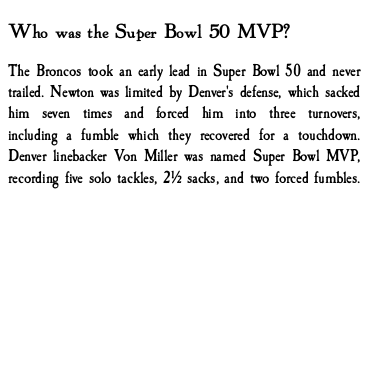
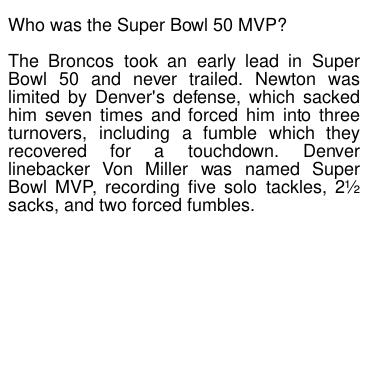
Bug fixes of syntethic generation code

Changed region(s): [[0.0, 0.0299, 0.9864, 0.5978]]

diff --git a/test.html b/test.html
@@ -1,0 +1,71 @@
+
+
+
+
+<!DOCTYPE html>
+<!-- setting language for hyphenation purpose -->
+ 
+<html lang=en_US>
+
+
+<head>
+    <style>
+        
+            
+    @page {
+        background: white;
+    }
+
+    
+    
+        
+    @page {
+        size: 368px 368px;
+        margin-top: 0px;
+        margin-bottom: 0px;
+        margin-right: 0px;
+        margin-left: 0px;
+    }
+
+
+    
+    
+        @font-face {
+        font-family: Aldrich-Regular;
+        src: url(fonts/fonts/Aldrich-Regular.ttf);
+    }
+
+    
+        html {
+        font-family: Garamond;
+        font-size: 18px;
+    }
+
+        
+        html { hyphens: none; }
+    
+
+        html { text-align: justify }
+
+        div.pretraining_text {
+        font-family: Aldrich-Regular;
+        font-size: 17px;
+        
+        
+        
+    }
+
+    
+
+    </style>
+    
+</head>
+
+<body>
+    
+        <div class="pretraining_text">
+            <p>  sometimes called the hazel hen. It is found across the Palearctic as far east as Hokkaidō, and as far west as eastern and central Europe. It lives in dense, damp, mixed coniferous woodland. It is a least concern species. </p>
+        </div>
+
+</body>
+</html>

diff --git a/pixel_dataset_generator.py b/pixel_dataset_generator.py
@@ -12,6 +12,7 @@ from PIL import Image, ImageDraw as D
 
 from datasets import load_dataset, Dataset
 import fuzzysearch
+from albumentations.pytorch import ToTensorV2
 
 from typing import List, Tuple, Dict, Callable, Optional
 import numpy as np
@@ -40,6 +41,16 @@ class CustomFont:
     
     def __str__(self) -> str:
         return f"Name: {self.font_name}\nSize: {self.file_name}\nPath: {self.font_size}"
+
+    def __getitem__(self, key: str) -> str:
+        if key == "file_name":
+            return self.file_name
+        elif key == "font_name":
+            return self.font_name
+        elif key == "font_size":
+            return self.font_size
+        else:
+            raise KeyError(f"Invalid key {key}")
 
 
 class ImageGenerator(object):
@@ -87,12 +98,12 @@ class ImageGenerator(object):
         """
         A method that returns a random custom font from the font list
         """
-        random_index = self.rng.integers(0, self.font_list.shape[0])
+        random_index = self.rng.randint(0, self.font_list.shape[0])
         random_font = self.font_list["path"][random_index]
         font_name = random_font.split(".")[0].split("/")[1]
 
         font_size = self.font_list["base_size"][random_index]
-        font_size = int(font_size / 2) + self.rng.integers(-4, 5, 1)[0]
+        font_size = int(font_size / 2) + self.rng.randint(-4, 5, 1)[0]
         
         custom_font = CustomFont(file_name=random_font,
                                  font_name=font_name.title(),
@@ -158,7 +169,7 @@ class ImageGenerator(object):
         html_text = self._generate_html_text(template, style, text)
         img_array = self._render_html_as_image(html_text, channel=self.config.channel)
         img_array = img_array[:self.config.image_height, :]
-        return img_array
+        return img_array, font
         
     def _crop_image(self, img):
         """
@@ -182,13 +193,13 @@ class ImageGenerator(object):
         non_white_pixels = np.argwhere(img < 255)
         # Find the minimum and maximum indices in each dimension.
         max_indices = non_white_pixels.max(axis=0)
-        return self.config.image_heigh - max_indices[0] > self.config.maximal_white_space_in_image
+        return self.config.image_height - max_indices[0] > self.config.maximal_white_space_in_image
     
     def concatenate_images(self, image1, image2):
         """
         A method that concatenates two images vertically
         """
-        concatenated = np.concatenate((self._crop_image(image1), self._crop_image(image2)), axis=0)
+        concatenated = np.concatenate((self._crop_image(image1), image2), axis=0)
         concatenated = concatenated[:self.config.image_height, :]
         return concatenated
     
@@ -209,15 +220,15 @@ class ImageGenerator(object):
         """
         mask = np.zeros(image_size)
         pixels_masked = 0
-        while (pixels_masked / (image_size[0] * image_size[1])) < self.args.mask_block_probability:
-            patch_height = self.rng.randint(self.args.mask_min_merged_blocks_size[0],
-                                             self.args.mask_max_merged_blocks_size[0] + 1) * self.args.mask_block_size[0]
-            patch_width = self.rng.randint(self.args.mask_min_merged_blocks_size[1],
-                                            self.args.mask_max_merged_blocks_size[1] + 1) * self.args.mask_block_size[1]
+        while (pixels_masked / (image_size[0] * image_size[1])) < self.config.mask_block_probability:
+            patch_height = self.rng.randint(self.config.mask_min_merged_blocks_size[0],
+                                             self.config.mask_max_merged_blocks_size[0] + 1) * self.config.mask_block_size[0]
+            patch_width = self.rng.randint(self.config.mask_min_merged_blocks_size[1],
+                                            self.config.mask_max_merged_blocks_size[1] + 1) * self.config.mask_block_size[1]
 
             for i in range(10):
-                random_mask_location_x = self.rng.choice(np.arange(0, image_size[0] - patch_height, self.args.mask_block_size[0]))
-                random_mask_location_y = self.rng.choice(np.arange(0, image_size[1] - patch_width, self.args.mask_block_size[1]))
+                random_mask_location_x = self.rng.choice(np.arange(0, image_size[0] - patch_height, self.config.mask_block_size[0]))
+                random_mask_location_y = self.rng.choice(np.arange(0, image_size[1] - patch_width, self.config.mask_block_size[1]))
 
                 slice = mask[random_mask_location_x: random_mask_location_x + patch_height,
                         random_mask_location_y:  random_mask_location_y + patch_width]
@@ -230,7 +241,7 @@ class ImageGenerator(object):
                     pixels_masked += patch_height * patch_width
                     break
 
-        small_mask = mask[::self.args.patch_base_size[0], ::self.args.patch_base_size[1]].flatten()
+        small_mask = mask[::self.config.patch_base_size[0], ::self.config.patch_base_size[1]].flatten()
         return mask, small_mask
 
 
@@ -248,7 +259,11 @@ class PretrainingDataset(IterableDataset):
         """
         super().__init__()
         self.config = config
-        self.transform = transform
+        if transform:
+            self.transform = transform
+        else:
+            tensor_transform = ToTensorV2()
+            self.transform =  lambda x: tensor_transform(image=x)['image']
         self.text_dataset = text_dataset
         self.rng = rng
         self.image_generator = ImageGenerator(config, rng)
@@ -267,7 +282,7 @@ class PretrainingDataset(IterableDataset):
         :param paragraphs: list of paragraphs
         :return: list of cleaned paragraphs
         """
-        paragraphs = [p.trim() for p in paragraphs ]
+        paragraphs = [p.strip() for p in paragraphs ]
         paragraphs = [p for p in paragraphs if len(p) > self.config.min_paragraph_length]  # TODO add to config file
         return paragraphs
     
@@ -276,41 +291,54 @@ class PretrainingDataset(IterableDataset):
         A method that returns a random snippet from a random paragraph in a random document
         :param random_loc_within_paragraph: whether to return a random location within the paragraph or the beginning
         """
-        doc_index = self.rng.randint(0, len(self.text_dataset))
-        doc = self.text_dataset[doc_index]["text"]
-        paragraphs = doc.split("\n")
-        paragraphs = self._clean_paragraphs(paragraphs)
+        paragraphs = []
+        while len(paragraphs) == 0:
+            doc_index = self.rng.randint(0, len(self.text_dataset))
+            doc = self.text_dataset[doc_index]["text"]
+            paragraphs = doc.split("\n")
+            paragraphs = self._clean_paragraphs(paragraphs)
+        
+        assert len(paragraphs) > 0, f"no paragraphs"
         
         paragraph_index = self.rng.randint(0, len(paragraphs))
         paragraph = paragraphs[paragraph_index]
         
-        random_loc = self.rng.randint(0, len(paragraph)) if random_loc_within_paragraph else 0
+        random_loc = self.rng.randint(0, len(paragraph) - self.config.min_paragraph_length) if random_loc_within_paragraph else 0
         return paragraph[random_loc:self.config.max_snippet_length]  # TODO add to config file
     
     def __iter__(self):
         while True:
             snippet = self._get_random_snippet()
-            image = self.image_generator.generate(snippet)
+            image, font = self.image_generator.generate(snippet)
             while self.image_generator.check_if_can_concatenate(image):
+                if self.rng.rand() > self.config.random_font_probability:
+                    font = None
                 snippet_2 = self._get_random_snippet(random_loc_within_paragraph=False)
-                image_2 = self.image_generator.generate(snippet_2)
+                image_2, font = self.image_generator.generate(snippet_2, font)
                 image = self.image_generator.concatenate_images(image, image_2)
-                
+            
             if self.transform:
                 image = self.transform(image)
             
             mask, patch_mask = self.image_generator.generate_random_mask(image.shape[1:])
-            attention_mask = self.image_generator.get_attention_mask(self.num_patches)
+            attention_mask = self.image_generator.get_attention_mask(self.config.num_patches)
             inputs = {"pixel_values": image,
                       "patch_mask": torch.tensor(patch_mask, dtype=torch.float32),
-                      "num_patches": self.num_patches,
+                      "num_patches": self.config.num_patches,
                       "attention_mask": attention_mask}
 
             yield inputs
         
 
 if __name__ == "__main__":
-    config = wandb.init(config="config.yaml", mode="disabled")
+    wandb.init(config="config.yaml", mode="disabled")
     text_dataset = load_dataset("wikipedia", "20220301.simple")
-    train_dataset = PretrainingDataset(config, text_dataset["train"], None, np.random.RandomState(42))
+    train_dataset = PretrainingDataset(wandb.config, text_dataset["train"], None, np.random.RandomState(1))
+    for i in range(1):
+        train_dataset.set_epoch(i)
+        for batch in train_dataset:
+            im = Image.fromarray(batch["pixel_values"].numpy()[0])
+            im.save("results/sample.png")
+            break
+        break
     
